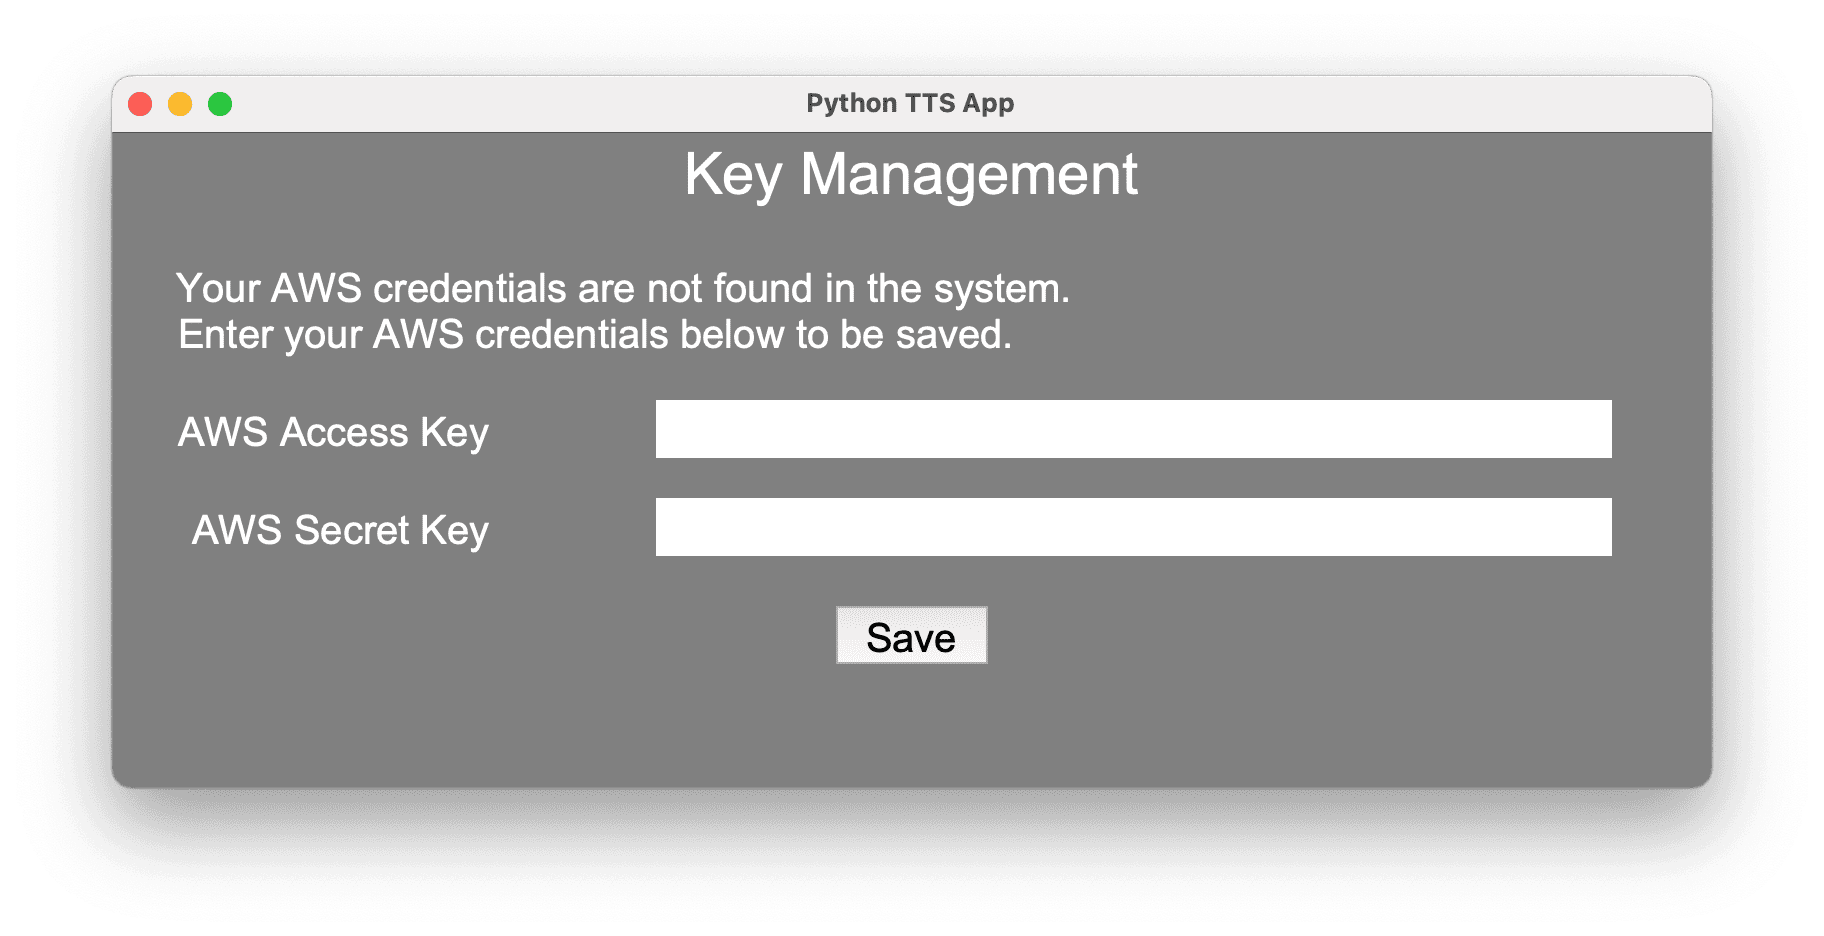
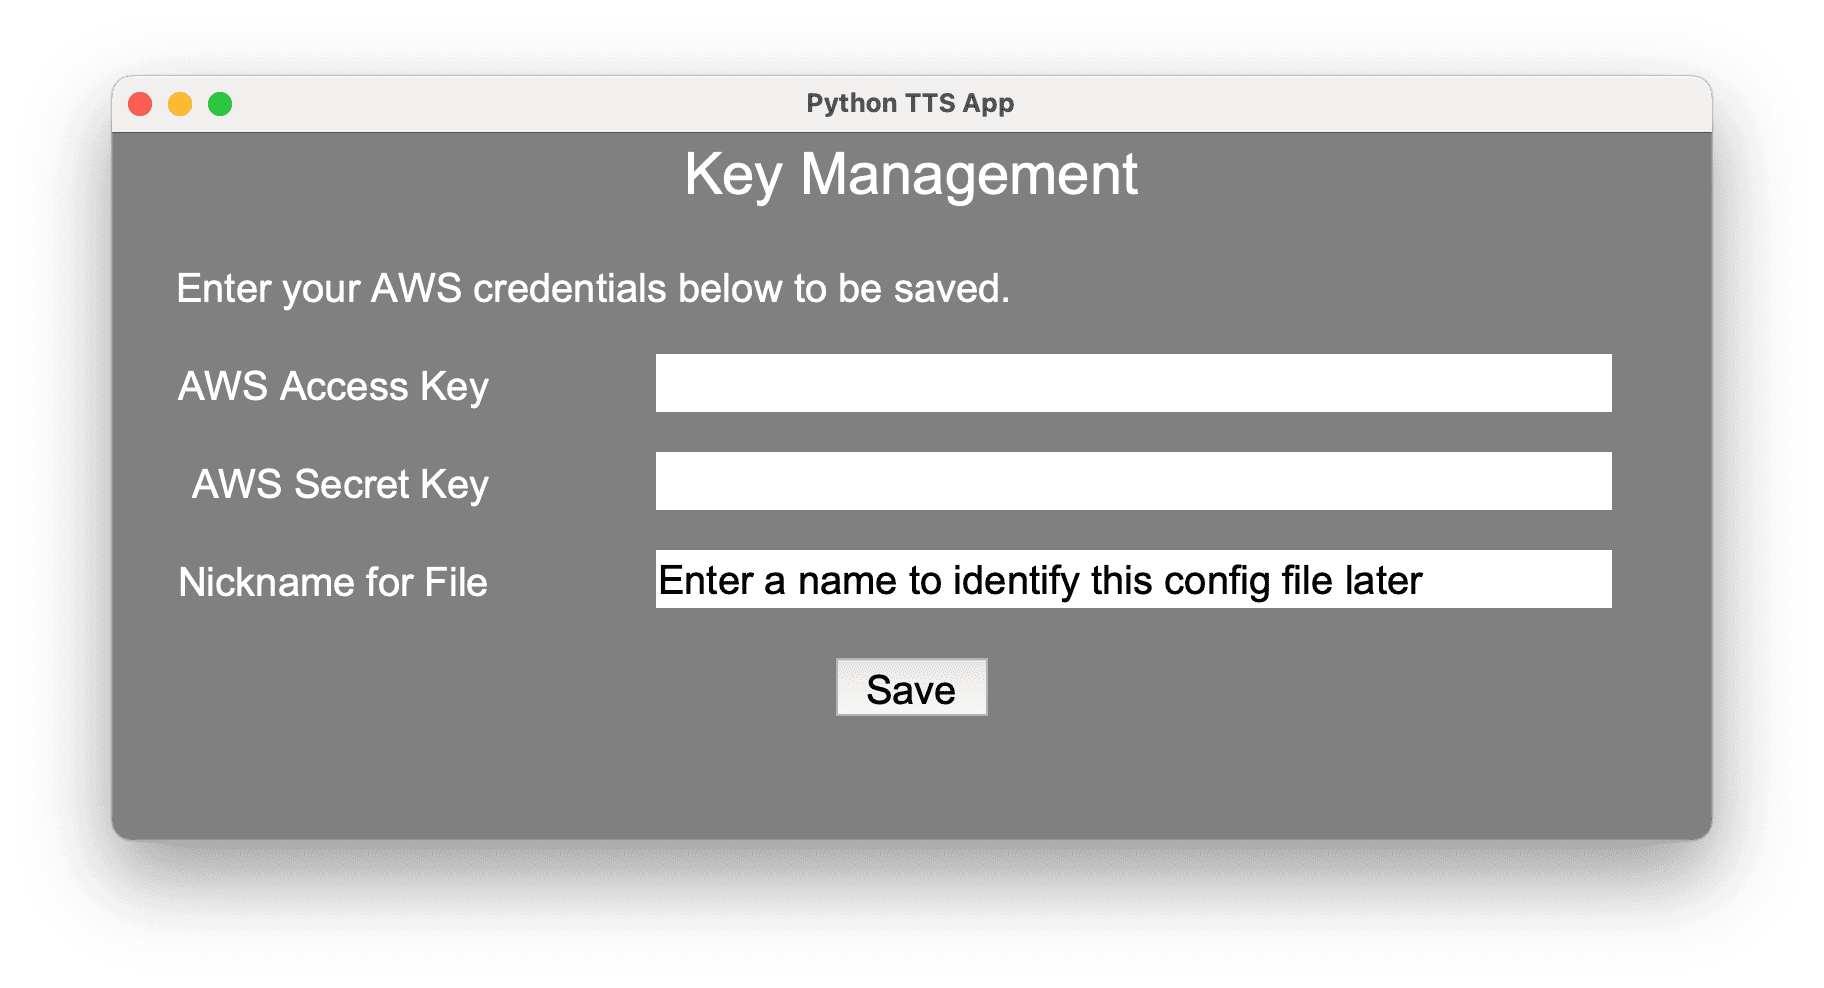
update Readme.md

diff --git a/README.md b/README.md
@@ -89,28 +89,51 @@ Follow these steps to set up your app with Google Cloud TTS:
 <br>
 
  **Download the `Python TTS.app` File**:
-   - Download the latest version of **`Python TTS.app`** file from the provided [link](https://github.com/Ponharish/Python-TTS-App/releases/tag/V3).
+   - Download the latest version of **`Python TTS.app`** file from the provided [link](https://github.com/Ponharish/Python-TTS-App/releases/tag/V3.1).
    - **Double-click** the `.app` file to open it.
 
  **Choosing your Engine**:
-  ![Service Selection](./pictures/ConfigureKeys_ServiceSelection.png)
+  ![Saved Service Selection](./pictures/ConfigureKeys_SavedServiceSelection.png)
    - Upon opening the app, a window will pop up asking for **TTS Service to be used**.
-   - Select the desired service and click **Next**.
+   - The list displays those services those are already saved in your system. New users have to add a service first.
+   - After selecting the desired TTS service and account, click **Next** to load the relevant TTS.
+
+   Note: If no services are saved in the system, the following page will be displayed. To use the app, add a service.
+   ![No Service Available](./pictures/ConfigureKeys_NoSavedService.png)
+  
+
+ **Adding New Engine**:
+   - New Engine can be added by clicking **Add Service** in the service selection window
+   - Next, Choose the service to use
+   ![Service Selection](./pictures/ConfigureKeys_ServiceSelection.png)
+
+   - Registering AWS Polly TTS
+    ![AWS Credentials Registration page](./pictures/configureKeys.png)
+      - Provide the following details to register your AWS account with the application
+        - **AWS Access Key**: Your **Access Key ID** from the AWS IAM user you created.
+        - **AWS Secret Key**: Your **Secret Access Key** associated with the IAM user.
+        - **Nickname for file**: Provide a nickname to identify this key during future use of application.
+
+   - Registering Google Cloud TTS
+    ![Google Cloud Credentials Registration page](./pictures/ConfigureKeys_googlecloudkeyregistrations.png)
+      - Once the above page loads, provide a nickname to identify this key during future use of application.
+      - Then click on **Open File** and open the **.json** file containing the key.
+   
+   - Upon completing the registration, the previous page to select engines will load.
+
+ **Removing Saved Engine**:
+  ![Deleting service](./pictures/ConfigureKeys_deleteService.png)
+   - New Engine can be added by clicking **Delete Service** in the service selection window.
+   - From the drop-down, choose the service to be removed from the system.
+   - Click **Remove** to delete the service from the system
 
 --- 
 
 ### Using Polly TTS
-1. ![AWS Credentials Registration page](./pictures/configureKeys.png)
-     - **AWS Access Key**: Your **Access Key ID** from the AWS IAM user you created.
-     - **AWS Secret Key**: Your **Secret Access Key** associated with the IAM user.
 
-2. **Main Page**:
-   - Upon completing the registration, the main page will load
-   ![Main page](./pictures/mainPage.png)
 
-3. **Convert Text to Speech**:
-  - In the main page, first select the region that is to be used
-   ![Main page - region selection](./pictures/mainPage_SelectRegion.png)
+ ![AWS](./pictures/awstts_mainPage.png)
+  - First select the region that is to be used
   - Then specify the **Engine** to be used (Standard or Neural)
     - **Standard Engine**: This engine uses a basic synthetic voice that may sound more robotic. It's efficient and works for most basic speech needs.
     - **Neural Engine**: This engine provides a more **natural-sounding voice** that is much closer to human speech, offering better intonation and fluidity.
@@ -123,25 +146,26 @@ Follow these steps to set up your app with Google Cloud TTS:
     - Type in the **text** (or SSML) that you want to be converted to speech. This is the content that will be spoken aloud by Amazon Polly.
 
   - **Click on Submit**:
-  ![Main page - submit](./pictures/mainPage_Submit.png)
     - After entering all the necessary details, click on the **"Submit"** button.
     - The app will generate the audio and **play it through your speakers**.
 
-4. **Signing in as another user or using another TTS service**:
-  - Click on **Reconfigure Keys**, which will open up the window for choosing the TTS service. Using this window, the new keys can be entered or the TTS service can be changed.
+ **Changing TTS service**:
+  - Click on **Change Service**, which will open up the window for choosing the TTS service. 
 
 
 #### Troubleshooting
 <br>
 
 Credential Registration Page
-![AWS Credentials Registration page Error](./pictures/configureKeys_Error.png) 
+![AWS Credentials Registration page Error](./pictures/configureKeys_AWS_Error.png)
 - **Invalid AWS Access Key**:  
   Ensure that the **AWS Access Key** entered is **valid**. Double-check that there are **no extra spaces or incorrect characters** before or after the key.
 
 - **Invalid AWS Secret Key**:  
   Verify that the **AWS Secret Key** is correct. Make sure there are **no extra spaces** or **incorrect characters** in the key, especially at the start or end.
 
+- **Invalid Nickname**:  
+  Ensure that the nickname provided does not contain any special character or space. Also, another configuration file unsing the same engine with the same name must not exist.
 
 Main Page
 
@@ -157,15 +181,10 @@ Main Page
 ---
 
 ### Using Google Cloud TTS
-1. ![Google Cloud Credentials Registration page](./pictures/ConfigureKeys_googlecloudkeyregistrations.png)
-     - Once the above page loads, click on **Open File** and open the **.json** file containing the key.
 
-2. **Main Page**:
-   - Upon completing the registration, the main page will load
-   ![Main page](./pictures/googletts_mainpage.png)
+![Main page](./pictures/googletts_mainpage.png)
 
-3. **Convert Text to Speech**:
-  - In the main page, first select the language that is to be used
+  - First select the language that is to be used
   - Then specify the **Engine** to be used (The list of available engines are loaded after languages are selected. Note: A particular language may not support all engines)
     - **Standard**: Basic synthetic voice with robotic tone; fast and efficient.
     - **Casual**: Conversational and relaxed tone, ideal for chatbots.
@@ -189,16 +208,19 @@ Main Page
     - After entering all the necessary details, click on the **"Submit"** button.
     - The app will generate the audio and **play it through your speakers**.
 
-4. **Signing in as another user or using another TTS service**:
-  - Click on **Reconfigure Keys**, which will open up the window for choosing the TTS service. Using this window, the new keys can be loaded or the TTS service can be changed.
+ **Changing TTS service**:
+  - Click on **Change Service**, which will open up the window for choosing the TTS service. 
 
 #### Troubleshooting
 <br>
 
 Credential Registration Page
-![Google Credentials Registration page Error](./pictures/ConfigureKeys_google_error.png) 
+![Google Credentials Registration page Error](./pictures/ConfigureKeys_google_error.png)
 - **Invalid Key**:  
   Ensure that the **.json** file is the correct file and is not corrupted.
+
+- **Invalid Nickname**:  
+  Ensure that the nickname provided does not contain any special character or space. Also, another configuration file unsing the same engine with the same name must not exist.
 
 Main Page
 
